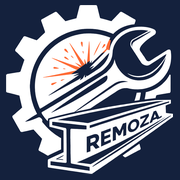
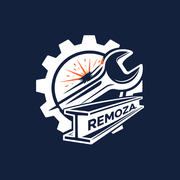
v6.4: ikona (plný čtverec s okrajem, bez bílých rohů a ořezu), auto-obnova statusu zaměstnanců, výchozí čas v Přidat záznam prázdný
Claude-Session: https://claude.ai/code/session_01MhzAD51jbcBYd5UwcfFPsD

diff --git a/index.html b/index.html
@@ -882,6 +882,12 @@ function renderGeoGate() {
   };
 }
 document.addEventListener('visibilitychange', () => { if (document.visibilityState === 'visible' && geoForced()) geoGate(true); });
+document.addEventListener('visibilitychange', () => {
+  if (document.visibilityState !== 'visible') return; // při návratu do aplikace rovnou obnov aktuální pohled
+  const el = $('#main');
+  if (S.view === 'home') { S.hcAt = 0; call('today').then(t => { if (S.view === 'home') { setToday(t); renderHome(el); } }).catch(() => {}); }
+  else if (S.view === 'team') { const st = S.teamState; if (st && st.mode === 'day' && st.date === localDate()) { const box = $('#tbox', el); if (box) call('dayAll', { date: st.date }).then(raw => { if (S.view === 'team' && document.body.contains(box)) paintTeamDay(box, el, st, raw); }).catch(() => {}); } }
+});
 
 /* jednorázově po přihlášení: požádat o povolení polohy, aby se pak už nikdy neptalo při pípnutí */
 async function askGeoOnce() {
@@ -949,13 +955,14 @@ function liveToday() {
   const add = t.state === 'IN' ? Math.floor((Date.now() - S.fetchedAt) / 60000) : 0;
   return Object.assign({}, t, { netMin: t.netMin + add, projectMin: t.projectMin + add });
 }
-function stopTick() { if (S.tick) { clearInterval(S.tick); S.tick = null; } }
+function stopTick() { if (S.tick) { clearInterval(S.tick); S.tick = null; } if (S.teamTick) { clearInterval(S.teamTick); S.teamTick = null; } }
 
 VIEWS.home = async function (el) {
   const seq = S.viewSeq;
   const t = await call('today');
   if (S.viewSeq !== seq) return; // uživatel mezitím přešel jinam – nevykresluj domovskou stránku přes jiný pohled
   setToday(t);
+  S.hcAt = 0; // otevření domovské stránky vždy stáhne čerstvé dlaždice týmu (interní překreslení dál brzdí)
   renderHome(el);
   S.tick = setInterval(() => {
     const c = $('#clk'); if (!c) return stopTick();
@@ -964,6 +971,10 @@ VIEWS.home = async function (el) {
     const tc = $('#tclk'); if (tc) tc.textContent = c.textContent;
     if (d.getSeconds() === 0) updateRing();
     if (Date.now() - S.fetchedAt > 5 * 60000) call('today').then(t => { setToday(t); renderHome(el); }).catch(() => {});
+    if (isMgr() && $('#hstats') && Date.now() - (S.hcAt || 0) > 30000) {
+      S.hcAt = Date.now();
+      call('dayAll', { date: localDate() }).then(l => { S.hc = teamCounts(l); const h = $('#hstats'); if (h) h.innerHTML = teamTiles(S.hc); }).catch(() => { S.hcAt = 0; });
+    }
   }, 1000);
 };
 
@@ -1033,7 +1044,7 @@ function renderHome(el) {
   if ($('#pnb')) $('#pnb').onclick = () => editProjectNote(t, el);
   if ($('#hstats')) {
     $('#hstats').onclick = () => go('team');
-    if (!S.hcAt || Date.now() - S.hcAt > 60000) {
+    if (!S.hcAt || Date.now() - S.hcAt > 30000) {
       S.hcAt = Date.now();
       call('dayAll', { date: localDate() }).then(l => { S.hc = teamCounts(l); const h = $('#hstats'); if (h) h.innerHTML = teamTiles(S.hc); }).catch(() => { S.hcAt = 0; });
     }
@@ -1169,18 +1180,15 @@ function renderDay(m, d, onChange) {
     const syncType = () => { $('#efp', m).style.display = f.type.value === 'IN' ? '' : 'none'; };
     let touched = false;
     const defTime = () => {
+      // nový záznam má čas prázdný (uživatel ho musí vyplnit), ať formulář nevypadá jako existující pípnutí;
+      // čas se předvyplní jen když vybraný projekt má nastavený svůj začátek/konec
       if (touched || f.id.value) return;
-      const u = d.user, st = toMinC(u.coreStart || s.coreStart || '08:00');
-      const daily = Math.round((u.dailyHours || s.dailyHours || 8) * 60);
-      const brk = daily > (+s.breakAfterHours || 6) * 60 ? (+s.breakMinutes || 30) : 0;
       const ins = d.events.filter(e => e.type === 'IN');
       const lastP = ins.length ? projById(ins[ins.length - 1].projectId) : null;
       const selP = projById(f.projectId.value);
-      let h;
-      if (f.type.value === 'IN') { if (selP && selP.start) { f.time.value = selP.start; return; } h = Math.floor(st / 60); }
-      else if (f.type.value === 'OUT') { if (lastP && lastP.end) { f.time.value = lastP.end; return; } h = Math.floor((st + daily + brk) / 60); }
-      else h = new Date().getHours();
-      f.time.value = pad(Math.min(h, 23)) + ':00';
+      if (f.type.value === 'IN' && selP && selP.start) f.time.value = selP.start;
+      else if (f.type.value === 'OUT' && lastP && lastP.end) f.time.value = lastP.end;
+      else f.time.value = '';
     };
     f.time.oninput = () => { touched = true; };
     f.type.onchange = () => { syncType(); defTime(); }; syncType(); defTime();
@@ -1337,6 +1345,7 @@ async function ensureUsers() { if (!S.users) S.users = await call('users'); retu
 
 VIEWS.team = async function (el, p) {
   const seq = S.viewSeq;
+  if (S.teamTick) { clearInterval(S.teamTick); S.teamTick = null; }
   const users = await ensureUsers();
   if (S.viewSeq !== seq) return; // mezitím došlo k přechodu na jiný pohled
   const st = S.teamState = Object.assign({ mode: 'day', date: localDate(), year: ymNow().year, month: ymNow().month, email: 'ALL' }, S.teamState || {}, p || {});
@@ -1370,7 +1379,11 @@ VIEWS.team = async function (el, p) {
     $$('[data-u]', box).forEach(tr => tr.onclick = () => VIEWS.team(el, { email: tr.dataset.u }));
     return;
   }
-  let all = sortTeam(await call('dayAll', { date: st.date }));
+  paintTeamDay(box, el, st, await call('dayAll', { date: st.date }));
+  startTeamPoll(box, el, st);
+};
+function paintTeamDay(box, el, st, raw) {
+  let all = sortTeam(raw);
   if (st.email !== 'ALL') all = all.filter(r => r.user.email === st.email);
   if (st.date === localDate()) { const rank = { IN: 0, BREAK: 1, OUT: 2 }; all.sort((a, b) => rank[a.day.calc.state] - rank[b.day.calc.state]); }
   const counts = { IN: 0, BREAK: 0, OUT: 0 };
@@ -1394,7 +1407,16 @@ VIEWS.team = async function (el, p) {
     }).join('') : '<tr><td colspan="9" class="empty">Nikdo nemá odpracovanou dobu</td></tr>') + '</tbody></table></div>' + hiddenNote(all.length - list.length);
   bindHidden(box, el);
   $$('[data-u]', box).forEach(tr => tr.onclick = () => openDay(tr.dataset.u, st.date, () => VIEWS.team(el, {})));
-};
+}
+function startTeamPoll(box, el, st) {
+  if (S.teamTick) { clearInterval(S.teamTick); S.teamTick = null; }
+  if (st.mode !== 'day' || st.date !== localDate()) return; // živě obnovujeme jen dnešní denní přehled
+  const seq = S.viewSeq;
+  S.teamTick = setInterval(() => {
+    if (S.view !== 'team' || S.viewSeq !== seq || document.visibilityState !== 'visible' || !document.body.contains(box)) return;
+    call('dayAll', { date: st.date }).then(raw => { if (S.view === 'team' && S.viewSeq === seq && document.body.contains(box)) paintTeamDay(box, el, st, raw); }).catch(() => {});
+  }, 30000);
+}
 function hiddenNote(n) {
   if (S.teamShowAll) return '<div class="hidn"><a data-hid="0">Skrýt pracovníky bez odpracované doby</a></div>';
   return n > 0 ? '<div class="hidn">Skryto ' + n + ' ' + (n === 1 ? 'pracovník' : n < 5 ? 'pracovníci' : 'pracovníků') + ' bez odpracované doby · <a data-hid="1">Zobrazit</a></div>' : '';
